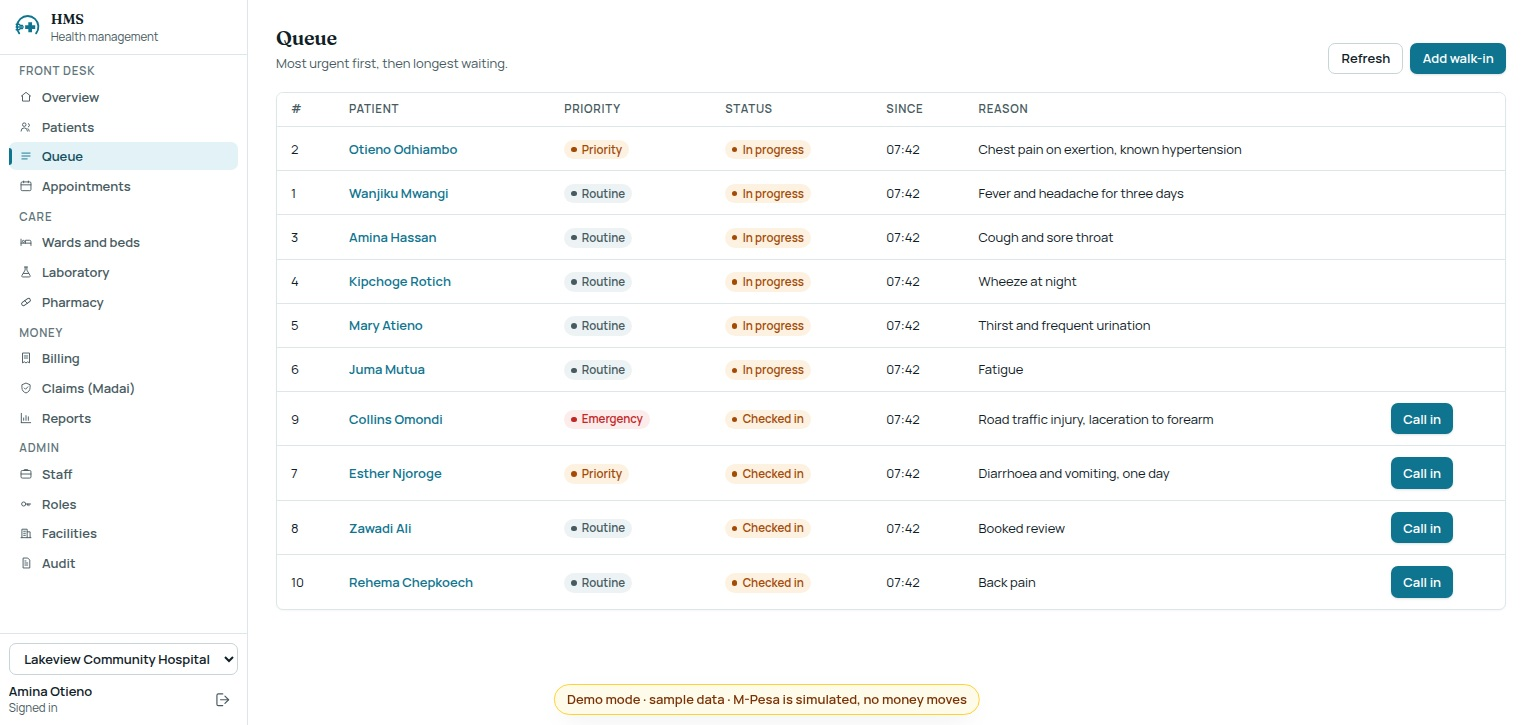
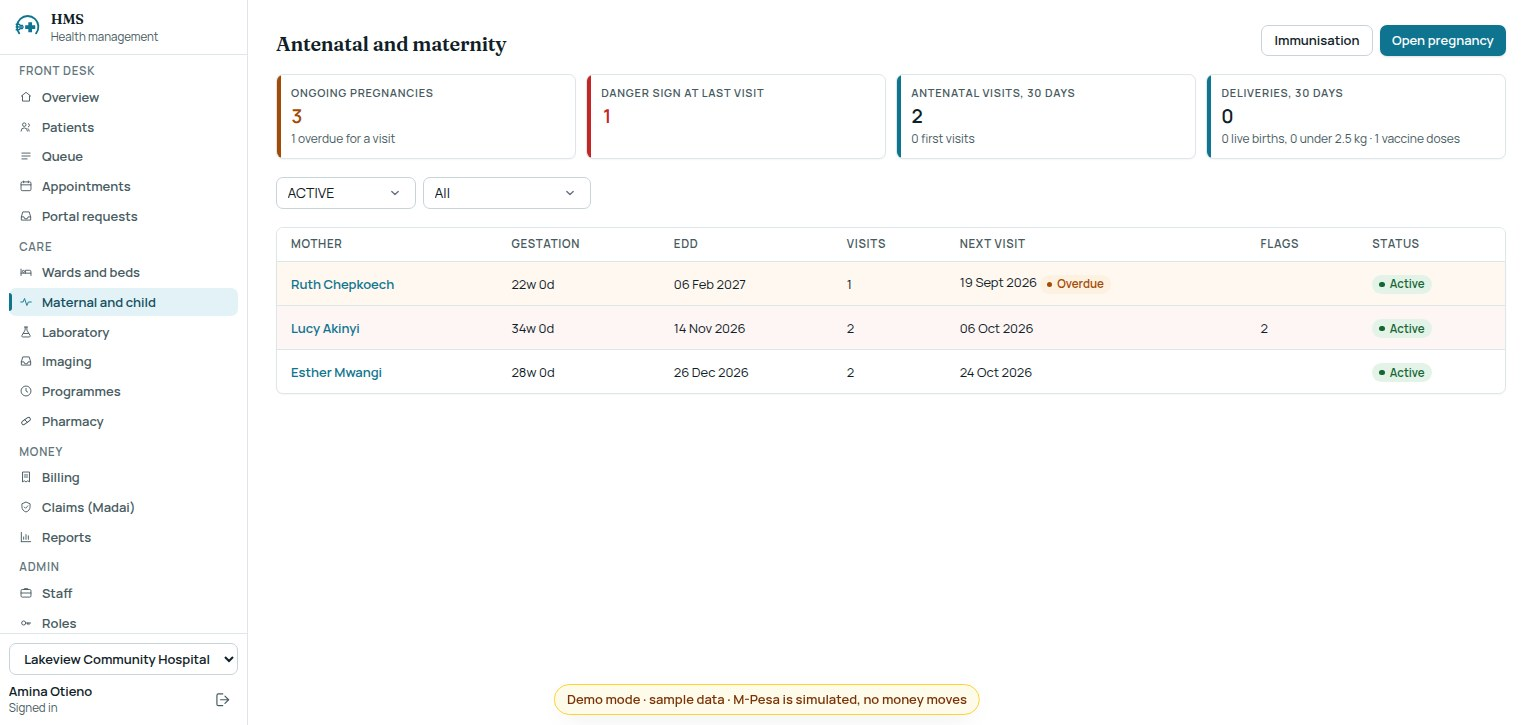
portfolio: sync HMS, SmartSeason, Church CMS and Soko; re-measured counts and fresh screenshots

diff --git a/portfolios/kennedy-portfolio/lib/data.ts b/portfolios/kennedy-portfolio/lib/data.ts
@@ -21,14 +21,14 @@ export const headline = [
     method: "26 in SmartSeason, 9 in SmartRE, one database each",
   },
   {
-    value: "2,399",
+    value: "2,484",
     label: "Tests across nine systems",
-    method: "Passing tests from each runner, re-measured 2 Oct 2026; skipped database-gated tests not counted",
+    method: "Passing tests from each runner; HMS, SmartSeason, Church CMS and Soko re-measured 3 Oct 2026, the rest 2 Oct; skipped database-gated tests not counted",
   },
   {
     value: "9",
     label: "Systems built and runnable",
-    method: "Each with a test suite and docker compose; Mara and HMS are partial by design; none has real users yet",
+    method: "Each with a test suite and docker compose; Mara is partial by design and HMS has no live payer or payment connection; none has real users yet",
   },
   {
     value: "10.7 ms",
@@ -38,7 +38,7 @@ export const headline = [
 ];
 
 export const evidenceNote =
-  "Test counts are passing tests from each project's own runner (pytest, vitest, Maven surefire), re-measured on 2 October 2026; tests that need an external database and were skipped are not counted. Service counts come from the build files. Latency and accuracy come from the benchmark documented in that project's own README. Mara and HMS are partial by design and say what they do not build. Nothing here is rounded up and no system has real users yet.";
+  "Test counts are passing tests from each project's own runner (pytest, vitest, Maven surefire), re-measured on 2 October 2026 (HMS, SmartSeason, Church CMS and Soko again on 3 October); tests that need an external database and were skipped are not counted. Service counts come from the build files. Latency and accuracy come from the benchmark documented in that project's own README. Mara is partial by design and HMS has no live payer or payment connection; each says what it does not build. Nothing here is rounded up and no system has real users yet.";
 
 export const resume = {
   // The download name is set explicitly so it does not land in someone's
@@ -162,9 +162,9 @@ export const experience = [
     org: "HMS, a Health Management System for Kenya",
     period: "2026 to Present",
     points: [
-      "Building a multi-facility health management system: nine backend modules covering patient registry, scheduling, clinical, pharmacy, laboratory, billing, claims readiness, inpatient and reporting, with tenant isolation enforced by PostgreSQL row-level security and a hash-chained audit trail written in the same transaction as each change.",
-      "Encoded safety rules in the database rather than the UI: double booking blocked by exclusion constraints, invoice lines frozen by trigger once issued, four-eyes validation of lab results, and a controlled-drug dispense that needs a different witness. Sixty-one tests run against a real PostgreSQL.",
-      "Not claimed: M-Pesa is simulated and SHA/DHA claim submission is an unverified stub that sends nothing, so no payer connection exists. Maternal, programmes, imaging, FHIR, patient portal, offline mode and the official MOH returns are not built.",
+      "Built a multi-facility health management system as a modular monolith: fifteen backend modules covering patient registry, scheduling, clinical, pharmacy, laboratory, imaging, billing, claims readiness, inpatient, maternal and child health, disease programmes, reporting, a FHIR R4 read interface and a patient portal, with tenant isolation enforced by PostgreSQL row-level security and a hash-chained audit trail written in the same transaction as each change.",
+      "Encoded safety rules in the database rather than the UI: double booking blocked by exclusion constraints, invoice lines frozen by trigger once issued, four-eyes validation of lab results, and a controlled-drug dispense that needs a different witness. 101 backend tests run against a real PostgreSQL, and the offline bedside capture was checked in headless Chrome.",
+      "Not claimed: M-Pesa is simulated and SHA/DHA claim submission is an unverified stub that sends nothing, so no payer connection exists. The DHIS2 export has not been sent to a DHIS2 server, the FHIR output has not been run through the HL7 validator, and the official MOH returns and DICOM imaging are not built.",
     ],
   },
   {
@@ -242,17 +242,17 @@ export const projects = [
     id: 3,
     slug: "smartseason",
     lang: "Java 21",
-    tests: "546",
+    tests: "591",
     domain: "Agri operations",
     title: "SmartSeason",
     subtitle: "Agricultural operations platform",
-    scale: "Java · 1,867 sources",
+    scale: "Java · 1,771 sources",
     description:
-      "Twenty-six bounded contexts, database-per-service behind a gateway, generated from a single catalogue so regenerating the tree produces no diff. Five fraud detectors consume attendance events over Kafka and open evidence-backed cases whose confidences compound probabilistically. Task start and stop are timed on the server's clock and written through an audit outbox. Errors are RFC 7807 problem documents across every service.",
+      "Twenty-six bounded contexts, database-per-service behind a gateway, generated from a single catalogue so regenerating the tree produces no diff. Five fraud detectors consume attendance events over Kafka and open evidence-backed cases whose confidences compound probabilistically. Task start and stop are timed on the server's clock and written through an audit outbox. Errors are RFC 7807 problem documents across every service. List endpoints filter and sort on the server through one shared specification filter, so the console never fetches everything to filter in the browser.",
     metrics: [
       { value: "26", label: "services" },
-      { value: "546", label: "tests" },
-      { value: "1,867", label: "Java sources" },
+      { value: "591", label: "tests" },
+      { value: "1,771", label: "Java sources" },
     ],
     tech: ["Java 21", "Spring Boot 3", "Kafka", "PostgreSQL", "Redis", "Next.js"],
     image: "/images/smartseason.jpg",
@@ -306,7 +306,7 @@ export const projects = [
     domain: "Congregations",
     title: "Church CMS",
     subtitle: "Multi-tenant congregation management",
-    scale: "TypeScript · 518 sources",
+    scale: "TypeScript · 562 sources",
     description:
       "Members, families, ministries, small groups, events, sermons, attendance, giving and a finance ledger, with every query scoped to the signed-in congregation by row-level security so one deployment serves many churches without them seeing each other. Each church defines its own roles, and permissions are resolved per request from the database rather than baked into the code or the token. Gift receipts print or download as PDF, the dashboard shows only what the signed-in role may see, and the interface has light and dark themes.",
     metrics: [
@@ -362,17 +362,17 @@ export const projects = [
     id: 9,
     slug: "hms",
     lang: "Java 21",
-    tests: "61",
+    tests: "101",
     domain: "Health systems",
     title: "HMS",
     subtitle: "Health management system for Kenya",
-    scale: "Java · 70 sources",
+    scale: "Java · 88 sources",
     description:
-      "A multi-facility health management system with nine backend modules: patient registry with duplicate detection, scheduling and a priority queue, clinical encounters, pharmacy, laboratory, billing, claims readiness, inpatient and reporting. Tenancy is PostgreSQL row-level security and the audit trail is hash-chained in the same transaction as each change. Safety rules live in the database: exclusion constraints stop double booking, issued invoice lines are frozen by trigger, lab results need a second validator, controlled drugs need a witness. M-Pesa is simulated and SHA/DHA claim submission is an unverified stub that sends nothing. Not built: maternal care, programmes, imaging, FHIR, patient portal, offline mode and the official MOH returns.",
+      "A multi-facility health management system for Kenya, built as a modular monolith: one Spring Boot service with fifteen feature modules over one PostgreSQL, so a dispense, its invoice line and its audit entry commit or roll back together. It covers patient registry with duplicate detection, scheduling and a priority queue, clinical encounters, pharmacy, laboratory, imaging with second-person sign-off, billing, claims readiness, inpatient, maternal and child health, HIV, TB and chronic-disease registers, configurable reports with CSV and DHIS2 export, a FHIR R4 read interface, a patient portal that shows results only after a clinician releases them, and offline-tolerant bedside capture. Tenancy is PostgreSQL row-level security and the audit trail is hash-chained in the same transaction as each change. Safety rules live in the database: exclusion constraints stop double booking, issued invoice lines are frozen by trigger, lab results need a second validator, controlled drugs need a witness. M-Pesa is simulated and SHA/DHA claim submission is an unverified stub that sends nothing. The DHIS2 file has not been sent to a DHIS2 server, the FHIR output has not been run through the HL7 validator, and the official MOH returns, a KHIS export and DICOM imaging are not built.",
     metrics: [
-      { value: "61", label: "backend tests" },
-      { value: "9", label: "backend modules" },
-      { value: "41", label: "console routes" },
+      { value: "101", label: "backend tests" },
+      { value: "15", label: "backend modules" },
+      { value: "61", label: "console routes" },
     ],
     tech: ["Java 21", "Spring Boot 3", "PostgreSQL", "Flyway", "Row-level security", "Next.js 16"],
     image: "/images/hms.jpg",

diff --git a/portfolios/kennedy-portfolio/app/layout.tsx b/portfolios/kennedy-portfolio/app/layout.tsx
@@ -26,11 +26,11 @@ export const metadata: Metadata = {
   metadataBase: new URL("https://kennedymwanzia.dev"),
   title: "Kennedy Mwanzia, Software Engineer",
   description:
-    "Distributed systems, multi-tenant SaaS and machine learning, built end to end. Nine systems, 35 microservices, 2,399 tests. Every number counted from the repository it describes.",
+    "Distributed systems, multi-tenant SaaS and machine learning, built end to end. Nine systems, 35 microservices, 2,484 tests. Every number counted from the repository it describes.",
   openGraph: {
     title: "Kennedy Mwanzia, Software Engineer",
     description:
-      "Nine systems, 35 microservices, 2,399 tests. Every number counted from the repository it describes.",
+      "Nine systems, 35 microservices, 2,484 tests. Every number counted from the repository it describes.",
     type: "website",
   },
   icons: { icon: "/favicon.ico" },
